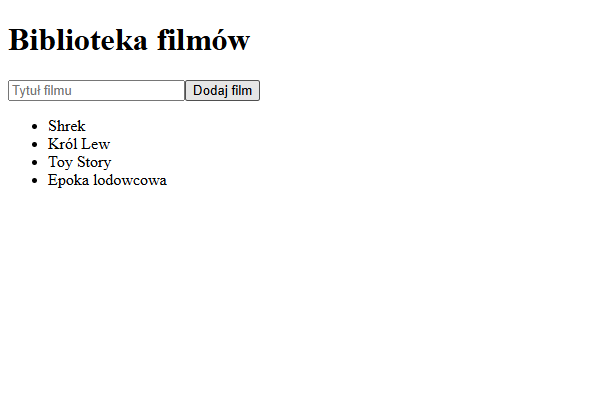
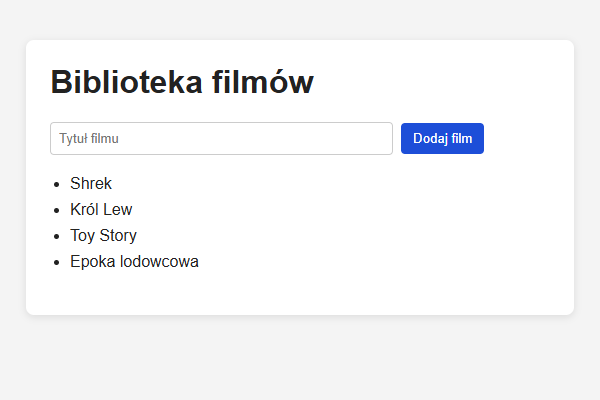
Dodatkowo: minimalne style CSS (poza wymaganiami zadania)

diff --git a/src/index.css b/src/index.css
@@ -1,0 +1,48 @@
+body {
+  margin: 0;
+  font-family: Arial, sans-serif;
+  background: #f4f4f4;
+  color: #222;
+}
+
+#root {
+  max-width: 500px;
+  margin: 40px auto;
+  padding: 24px;
+  background: #fff;
+  border-radius: 8px;
+  box-shadow: 0 2px 8px rgba(0, 0, 0, 0.1);
+}
+
+h1 {
+  margin-top: 0;
+}
+
+input {
+  padding: 8px;
+  width: 65%;
+  border: 1px solid #ccc;
+  border-radius: 4px;
+}
+
+button {
+  padding: 8px 12px;
+  margin-left: 8px;
+  border: none;
+  border-radius: 4px;
+  background: #2563eb;
+  color: #fff;
+  cursor: pointer;
+}
+
+button:hover {
+  background: #1d4ed8;
+}
+
+ul {
+  padding-left: 20px;
+}
+
+li {
+  padding: 4px 0;
+}

diff --git a/src/main.jsx b/src/main.jsx
@@ -1,6 +1,7 @@
 import { StrictMode } from 'react'
 import { createRoot } from 'react-dom/client'
 import App from './App.jsx'
+import './index.css'
 
 createRoot(document.getElementById('root')).render(
   <StrictMode>
